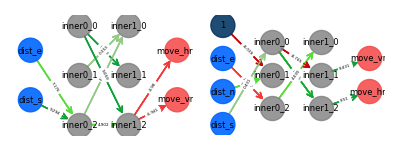
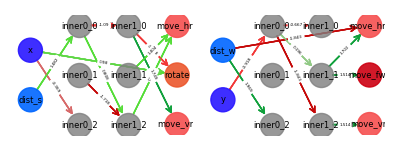
solved unexpected behaviour in initializing Network.connections

diff --git a/ML/Genetic_Neural_Network/classes.py b/ML/Genetic_Neural_Network/classes.py
@@ -154,16 +154,12 @@ def move_w(neuron):
         neuron.master.entity.move_x(-neuron.value * K_VELOCITY)
 
 def move_hrz(neuron):
-    if neuron.value <= -0.25:
-        neuron.master.entity.move_x(-(1.0 - 2*neuron.value) * K_VELOCITY)
-    elif neuron.value >= 0.25:
-        neuron.master.entity.move_x((2*neuron.value - 1.0) * K_VELOCITY)
+    if abs(neuron.value) >= 0.25:
+        neuron.master.entity.move_x(neuron.value * K_VELOCITY)
 
 def move_vrt(neuron):
-    if neuron.value <= -0.25:
-        neuron.master.entity.move_y(-(1.0 - 2*neuron.value) * K_VELOCITY)
-    elif neuron.value >= 0.25:
-        neuron.master.entity.move_y((2*neuron.value - 1.0) * K_VELOCITY)
+    if abs(neuron.value) >= 0.25:
+        neuron.master.entity.move_y(neuron.value * K_VELOCITY)
 
 _move_ne = lambda neuron: (move_n(neuron), move_e(neuron))[0]
 _move_nw = lambda neuron: (move_n(neuron), move_w(neuron))[0]
@@ -192,7 +188,7 @@ def rotate(neuron):
         return
     
 def set_freq(neuron):
-    if neuron.value < 0.2:
+    if neuron.value < 0.4:
         return
     neuron.master.entity.freq *= np.float_power(1.5,  (neuron.value - 0.7)/0.3)
 
@@ -316,6 +312,7 @@ def interp_gene(network):
             else:
                 d_op[g_si] = 1
         elif g_t == BRAIN_DEPTH + 1:
+            '''
             # hidden[0] -> [1]
             g_t = 1
             g_so = g_so % N_PER_LAYER
@@ -332,7 +329,6 @@ def interp_gene(network):
                 d_op[g_si] += 1
             else:
                 d_op[g_si] = 1
-            '''
         else:
             # hidden[i-1] -> hidden[i]
             g_so = g_so % N_PER_LAYER
@@ -368,7 +364,7 @@ def interp_gene(network):
                 h = np.rad2deg(np.arctan(m_sin/m_cos) + PI)
             h = h % 360
             s = max(0.3 + 0.7*(sum(len(l) for l in l_c[1:-2]) / BRAIN_SIZE), 0.4)
-        l = max(0.95 * ((len(d_ip)+len(d_op)) / (n_InputN+n_OutputN) + 1.0)/2.0, 0.57)
+        l = max(0.91 * ((len(d_ip)+len(d_op)) / (n_InputN+n_OutputN) + 1.0)/2.0, 0.57)
     else:
         h = 0
         s = 0
@@ -387,7 +383,7 @@ class Network:
         for l in range(n_layers):
             for i in range(n_inner):
                 self.inner_neurons[l].append(Neuron(self, (l+1, i), 0.0, f"inner{l}_{i}"))
-        self.connections = [[]] * (BRAIN_DEPTH+2)  # connections[0]: input->output, connections[else]: inner->inner, connections[-1]: inner->output
+        self.connections = [[] for i in range(BRAIN_DEPTH+2)]  # connections[0]: input->output, connections[else]: inner->inner, connections[-1]: inner->output
         # connection = (source, sink, weight)
         self.color = ""
         interp_gene(self)
@@ -395,7 +391,8 @@ class Network:
     def run(self):
         # calculate neurons
         for inp in self.input_neurons:
-            inp.get_input()
+            #inp.get_input()
+            inp.value = 0.5
         for l in range(BRAIN_DEPTH+2):
             conns = self.connections[l]
             sincs = set()
@@ -546,14 +543,15 @@ class Entity:
 
 
 if __name__ == "__main__":
-    print(randGene())
-    gene1 = "e65007c1ad880afa293ff14d3096df5152b38b7b64ba0202d8ea025c30ea"
+    gene1 = randGene()
     '''
     gene1 = ""
     for i in range(8):
         gene1 += f"0" + hex(8+i)[2:]+ "0000"
     '''
     net1 = Network(None, N_PER_LAYER, BRAIN_DEPTH, gene1)
+    net1.printGene()
+    net1.run()
     fig = plt.figure(figsize=(4,2), dpi=200)
     ax = fig.add_subplot(1, 1, (1,1))
     net1.makeGraph(ax)

diff --git a/ML/Genetic_Neural_Network/Simulation.py b/ML/Genetic_Neural_Network/Simulation.py
@@ -179,7 +179,7 @@ class SimWindow(Frame):
                 colors = []
                 rand.shuffle(surviving_genes)
                 for i in range(INITIAL_GEN_POP):
-                    if i < 30:
+                    if i < max(int(INITIAL_GEN_POP/(1.5*self.gen)), 25):
                         new_genes.append(randGene())
                     else:
                         new_genes.append(mutateGene(surviving_genes[i % len(surviving_genes)]))
@@ -189,7 +189,7 @@ class SimWindow(Frame):
                     self.canvas.itemconfig(e.obj, outline=e.network.color)
                     colors.append(e.network.color)
                     
-                sample_colors = rand.sample(colors, 40)
+                sample_colors = rand.sample(colors, 30)
                 for i, color in enumerate(sample_colors):
                     self.after(1, self.master.plot_win.plot_point("gene_1", self.gen, i, color))
             else:
@@ -200,7 +200,7 @@ class SimWindow(Frame):
             colors = []
             for e in entities:
                 colors.append(e.network.color)
-            sample_colors = rand.sample(colors, 40)
+            sample_colors = rand.sample(colors, 30)
             sample_colors = minimize_color_difference(sample_colors, "#hex")
             for i, color in enumerate(sample_colors):
                 self.master.plot_win.plot_point("gene_1", self.gen, i, color)

diff --git a/ML/Genetic_Neural_Network/hyperparams.py b/ML/Genetic_Neural_Network/hyperparams.py
@@ -2,10 +2,10 @@ import numpy as np
 PI = np.pi
 
 N_PER_LAYER = 3  # 은닉층 뉴런 개수
-BRAIN_SIZE = 12  # 최대 connection 개수
+BRAIN_SIZE = 13  # 최대 connection 개수
 BRAIN_DEPTH = 2 # hidden layer 개수 < 16 - 1
-P_MUTATION = 0.04  # 변이 확률
-MAX_WEIGHT = 10.0
+P_MUTATION = 0.05  # 변이 확률
+MAX_WEIGHT = 5.0
 
 K_VELOCITY = 1.2
 
@@ -13,7 +13,7 @@ CANVAS_DIM = 720
 CANVAS_PAD = 30
 SETWIN_WIDTH = 500
 PLOTWIN_HEIGHT = 600
-FRAMES_PER_GEN = 200
+FRAMES_PER_GEN = 220
 INITIAL_GEN_POP = 900
 
 INITIAL_POS = []  # the initial positions at the start of each gen
@@ -31,7 +31,11 @@ DEAD_ZONE = [
 ]
 WALLS = [
       ((200, 520), (170, 180)),
+      ((200, 210), (180, 190)),
+      ((510, 520), (180, 190)),
       ((200, 520), (540, 550)),
+      ((200, 210), (530, 540)),
+      ((510, 520), (530, 540))
 ]
 
 frame_delay_ms = 25
